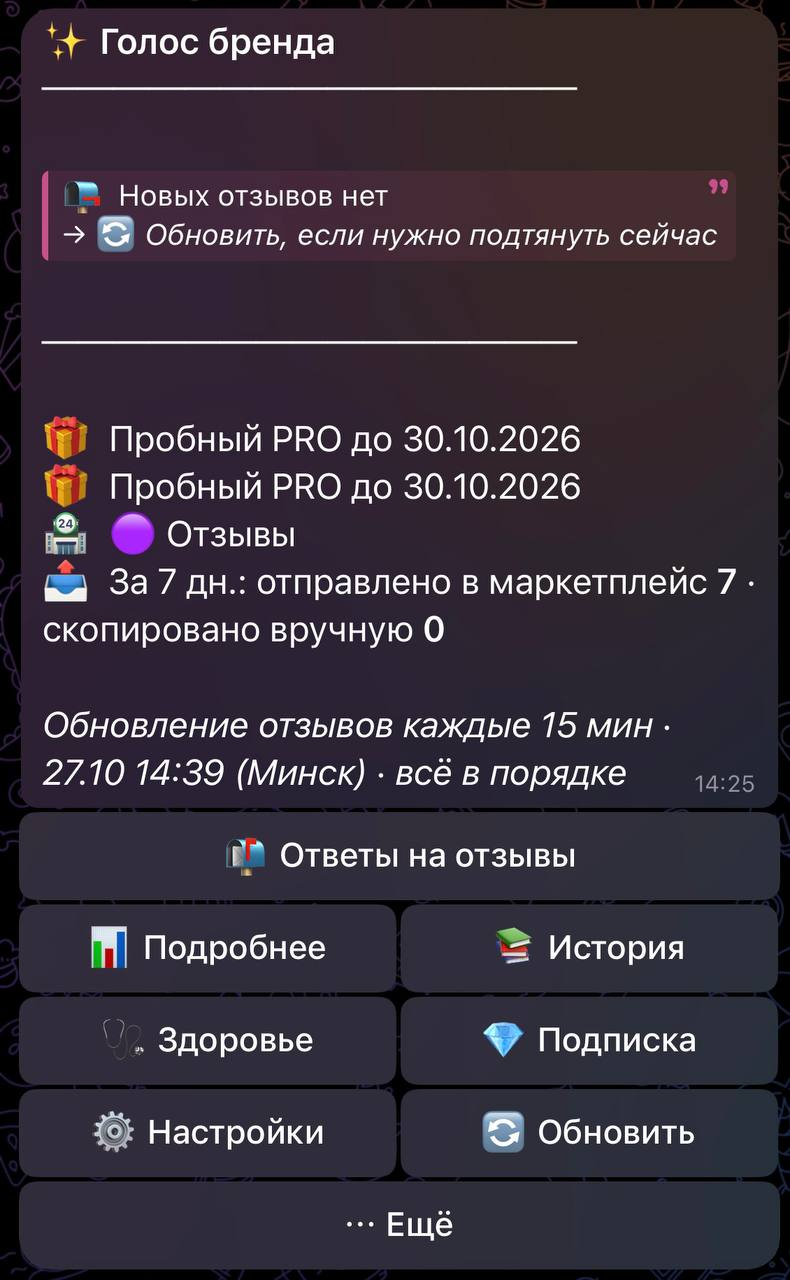
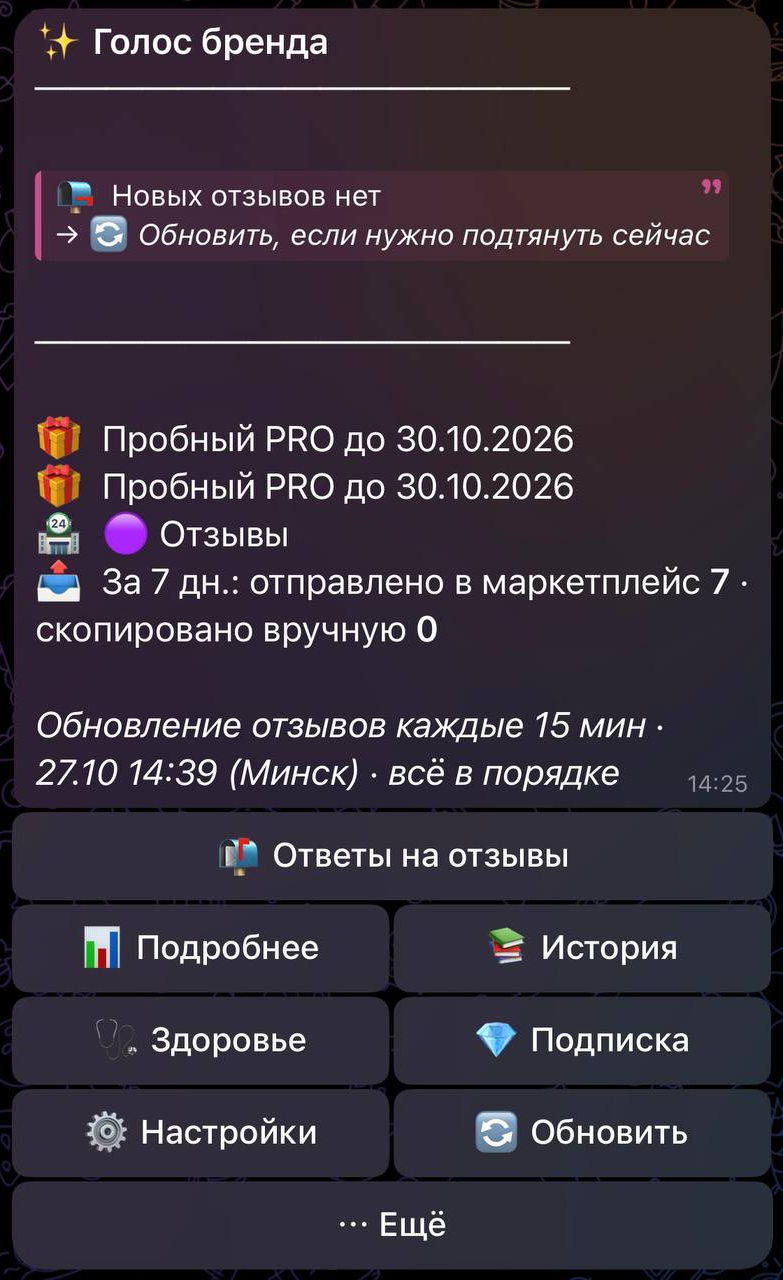
Center bot screenshots, reorder showcase, set Lite 2 and PRO 4 cabinets

diff --git a/website/src/content/bot-screenshots.ts b/website/src/content/bot-screenshots.ts
@@ -10,6 +10,13 @@ export type BotScreenshot = {
 
 export const BOT_SCREENSHOTS: BotScreenshot[] = [
   {
+    id: "description",
+    src: asset("/bot-screenshots/description.png"),
+    alt: "Карточка бота в Telegram до нажатия «Старт»",
+    title: "Первое знакомство",
+    caption: "Так бот выглядит, когда вы открываете его впервые.",
+  },
+  {
     id: "dashboard",
     src: asset("/bot-screenshots/dashboard.png"),
     alt: "Главный экран бота: сводка по отзывам и кнопки действий",
@@ -36,12 +43,5 @@ export const BOT_SCREENSHOTS: BotScreenshot[] = [
     alt: "Раздел поддержки в боте",
     title: "Поддержка",
     caption: "Пишете — отвечает живой человек. Документы тоже здесь.",
-  },
-  {
-    id: "description",
-    src: asset("/bot-screenshots/description.png"),
-    alt: "Карточка бота в Telegram до нажатия «Старт»",
-    title: "Первое знакомство",
-    caption: "Так бот выглядит, когда вы открываете его впервые.",
   },
 ];

diff --git a/website/src/components/BotScreensShowcase.tsx b/website/src/components/BotScreensShowcase.tsx
@@ -36,7 +36,7 @@ export function BotScreensShowcase() {
                   width={900}
                   height={1600}
                   loading={active === 0 ? "eager" : "lazy"}
-                  className="w-full rounded-[1.35rem] object-cover object-top transition-opacity duration-300"
+                  className="w-full rounded-[1.35rem] object-cover object-[center_top] transition-opacity duration-300"
                 />
               </div>
               <p className="mt-5 text-center text-small text-ink-muted">{shot.caption}</p>
@@ -68,7 +68,7 @@ export function BotScreensShowcase() {
                           src={item.src}
                           alt=""
                           loading="lazy"
-                          className="h-full w-full object-cover object-top"
+                          className="h-full w-full object-cover object-[center_top]"
                         />
                       </span>
                       <span>

diff --git a/website/src/components/PricingCards.tsx b/website/src/components/PricingCards.tsx
@@ -26,7 +26,7 @@ const plans = [
     cta: "Выбрать Lite",
     features: [
       "Сколько угодно ответов",
-      "Несколько кабинетов",
+      "2 кабинета WB и Ozon",
       "Разные стили для разных магазинов",
       "Ответ копируете в кабинет",
     ],
@@ -40,6 +40,7 @@ const plans = [
     featured: true,
     features: [
       "Всё, что есть в Lite",
+      "4 кабинета WB и Ozon",
       "Ответ уходит прямо из бота",
       "Пятёрки и четвёрки — автоматически",
       "Можно попробовать бесплатно",

diff --git a/website/src/components/PricingTable.tsx b/website/src/components/PricingTable.tsx
@@ -18,8 +18,8 @@ const rows: Row[] = [
   {
     label: "Кабинетов WB и Ozon",
     free: "1",
-    lite: "несколько",
-    pro: "несколько",
+    lite: "2",
+    pro: "4",
   },
   {
     label: "Стилей общения",
